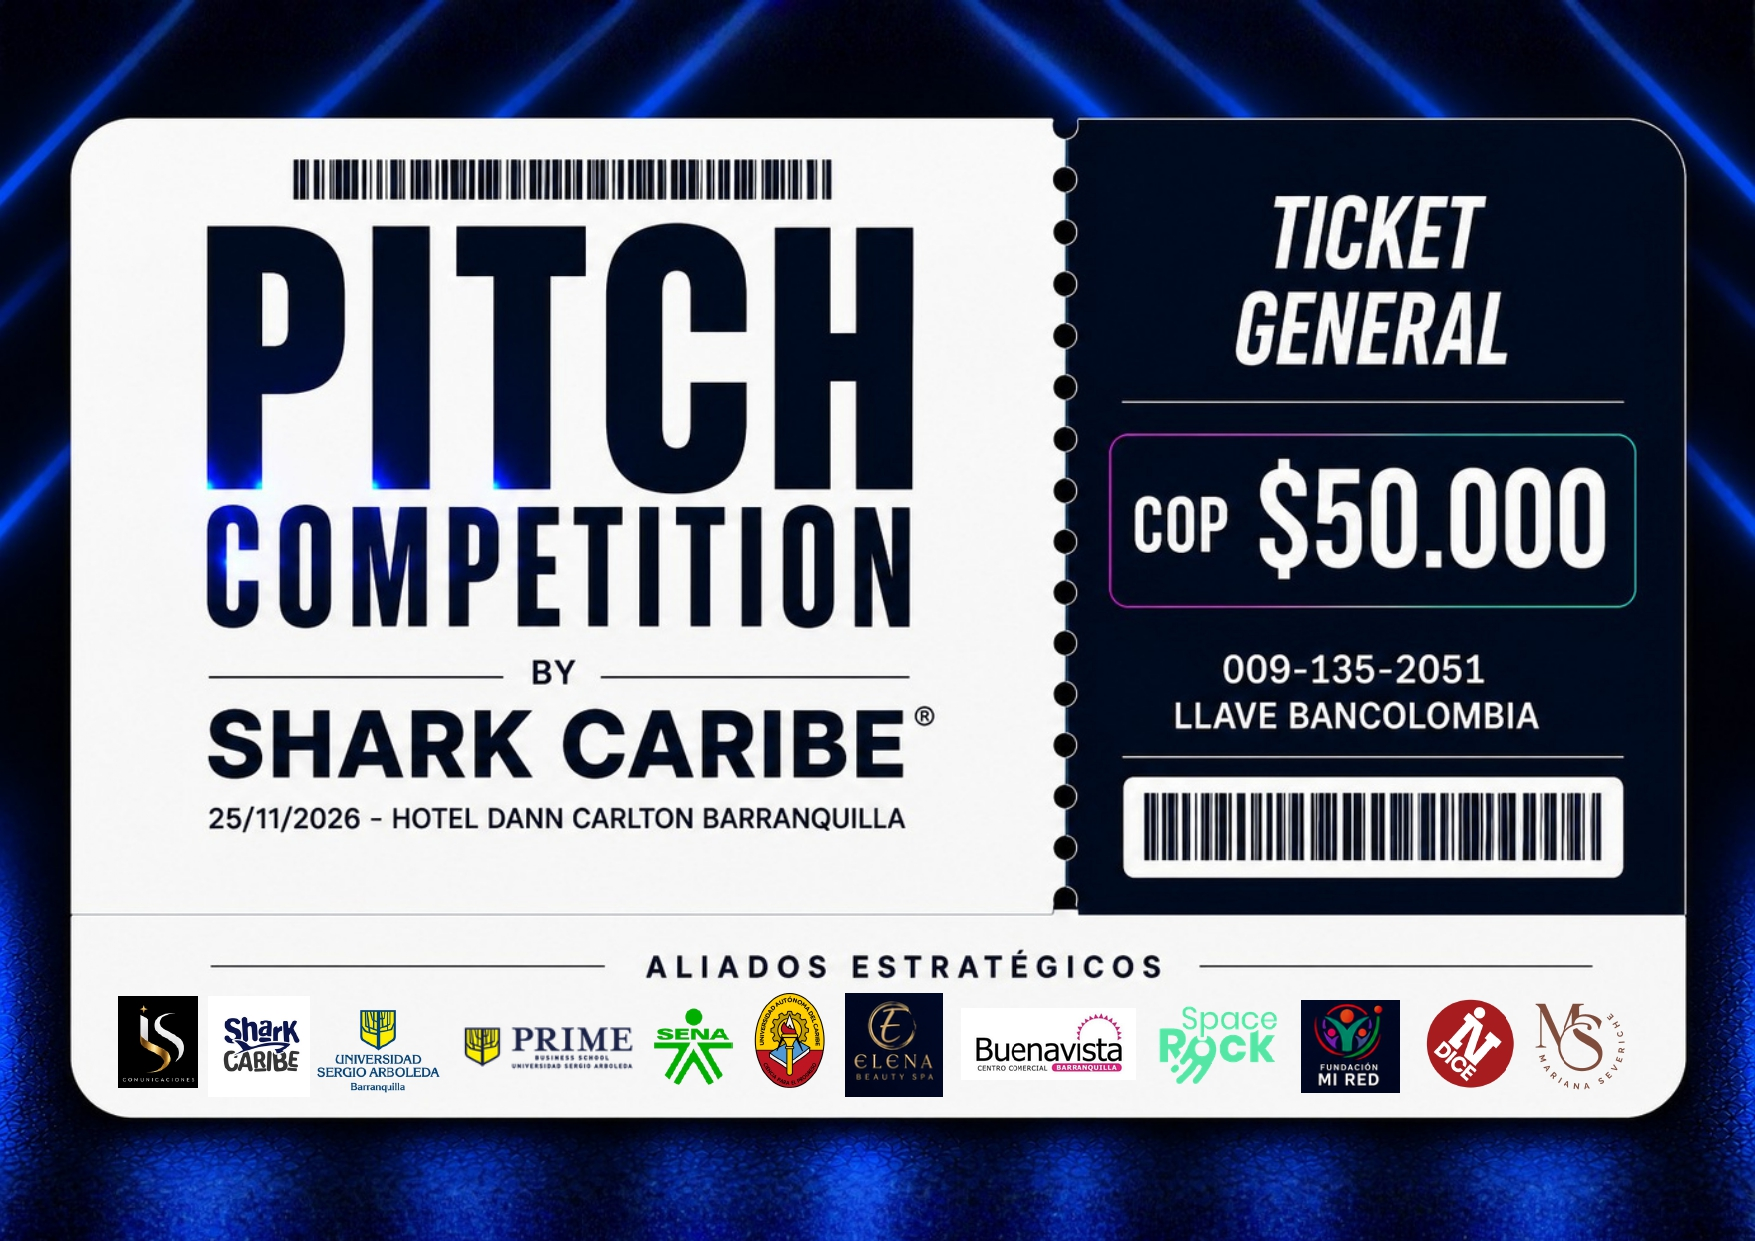
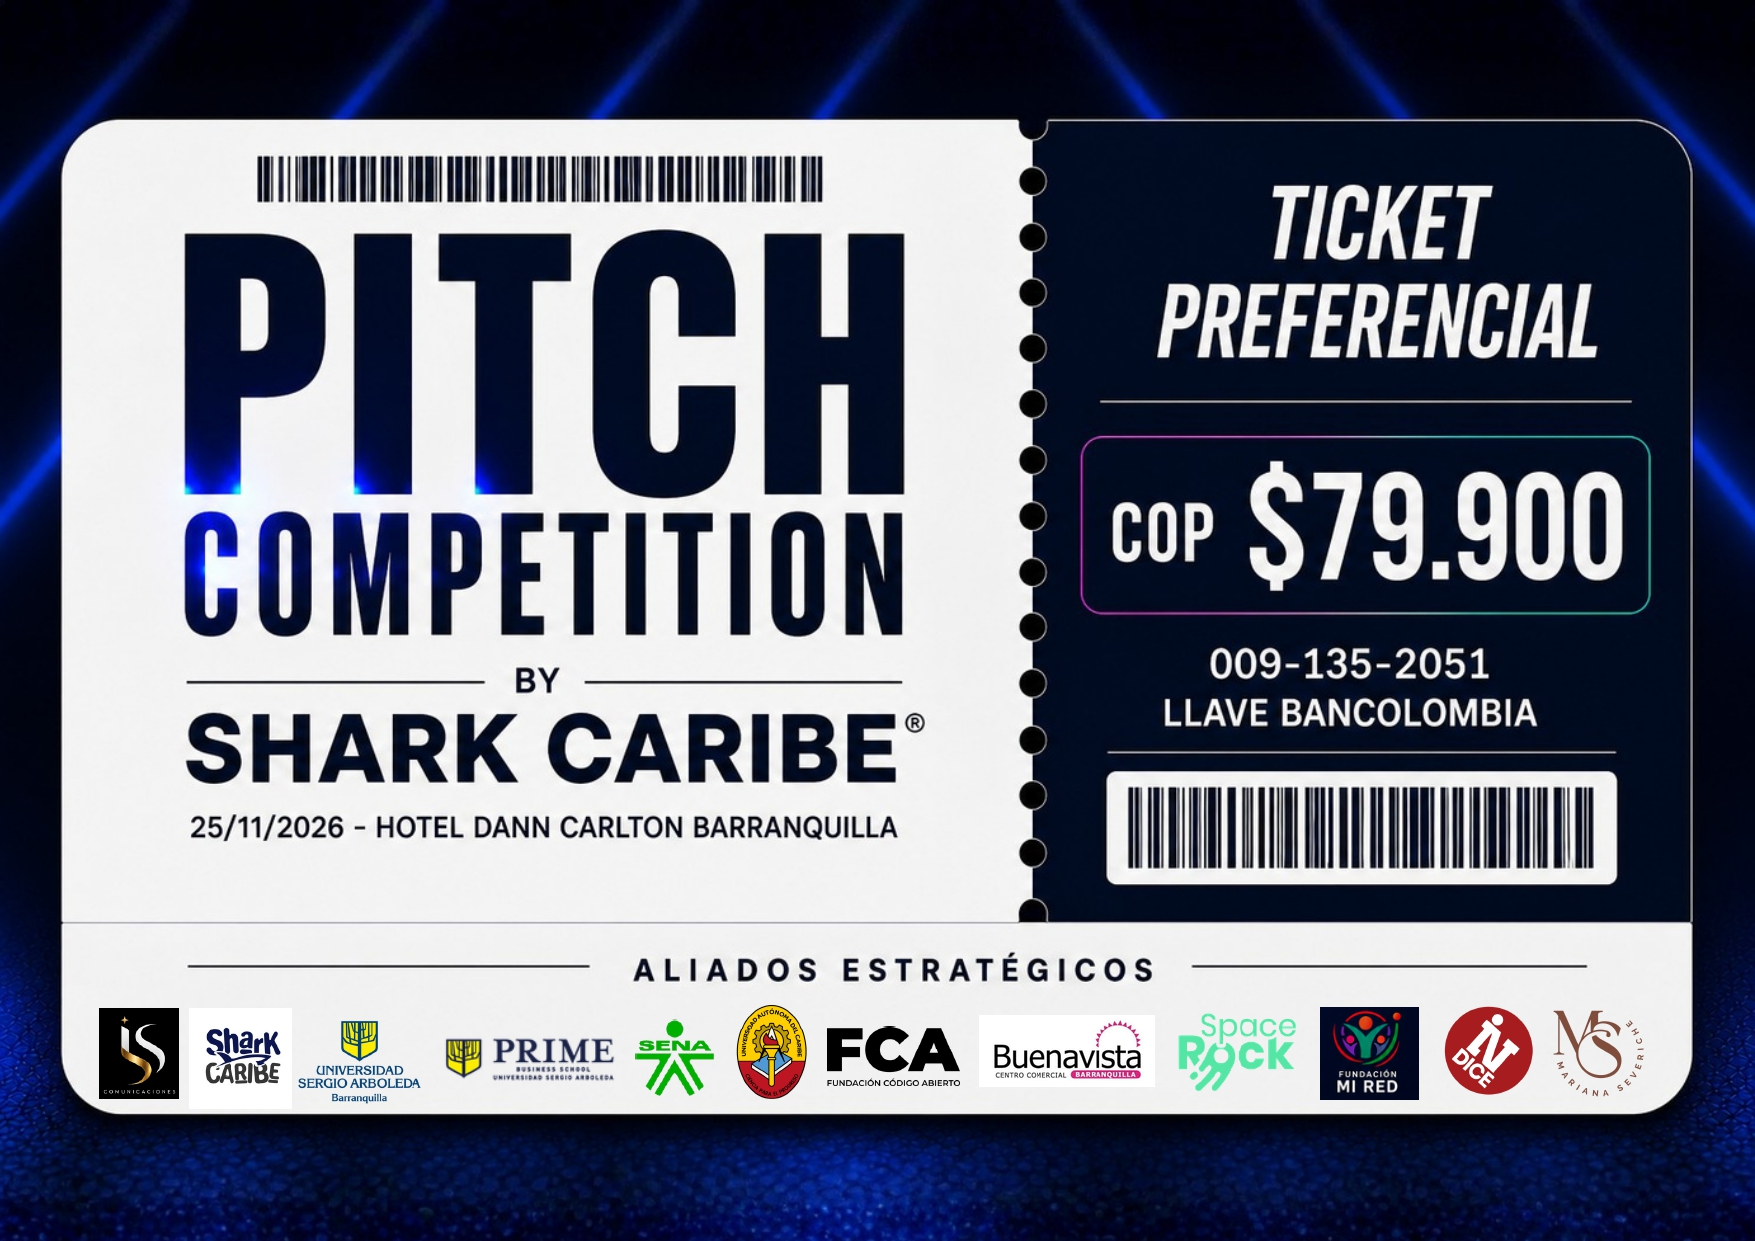
actualizacion del hero

diff --git a/src/data/content.js b/src/data/content.js
@@ -21,7 +21,7 @@ export const TERMS_URL = '/terminos-referencia-shark-caribe-2026.pdf'
 export const HERO_SLIDES = [
   {
     id: 'hero0',
-    src: '/hero/hero0.jpeg',
+    src: '/hero/hero0.jpg',
     alt: 'Shark Caribe 2026',
   },
   {
